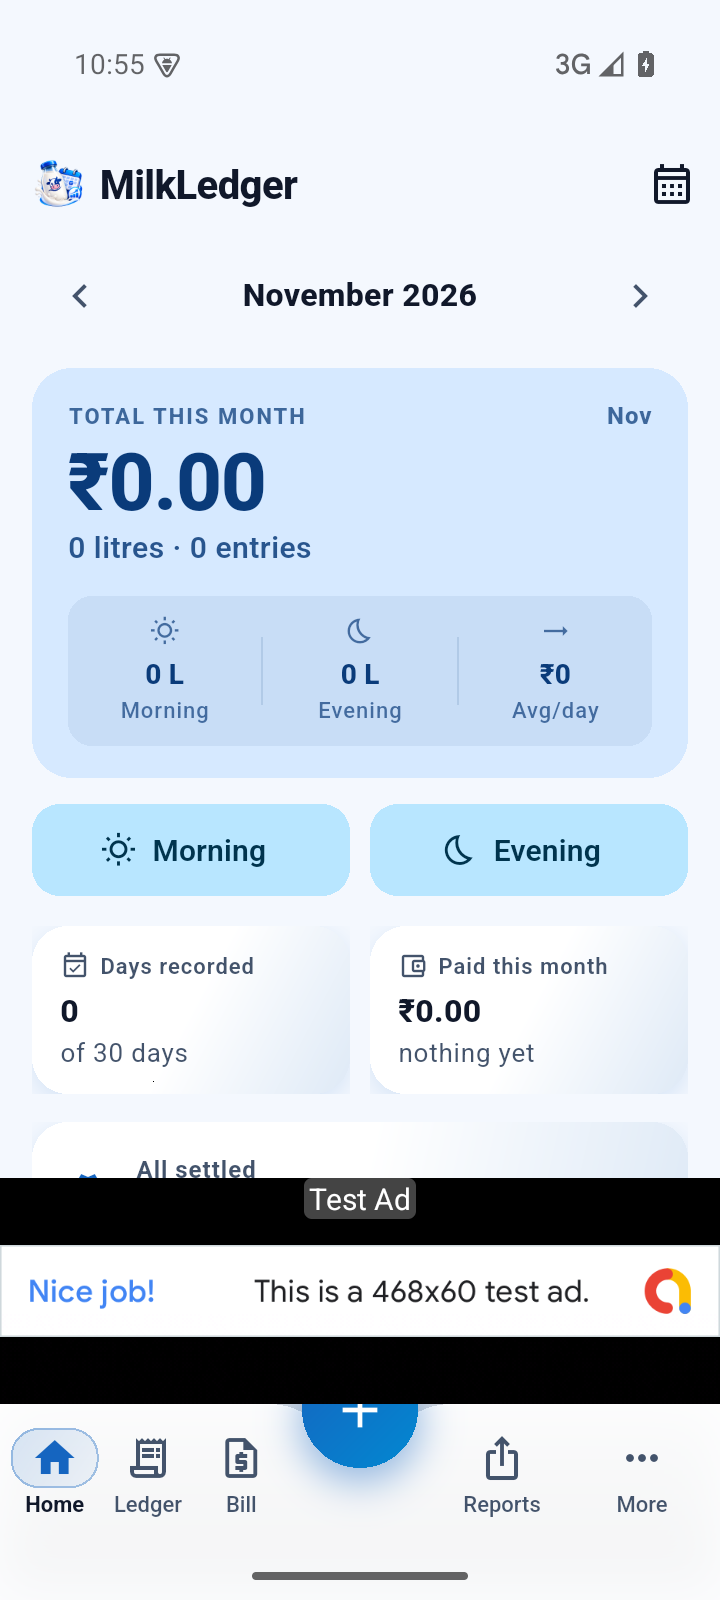
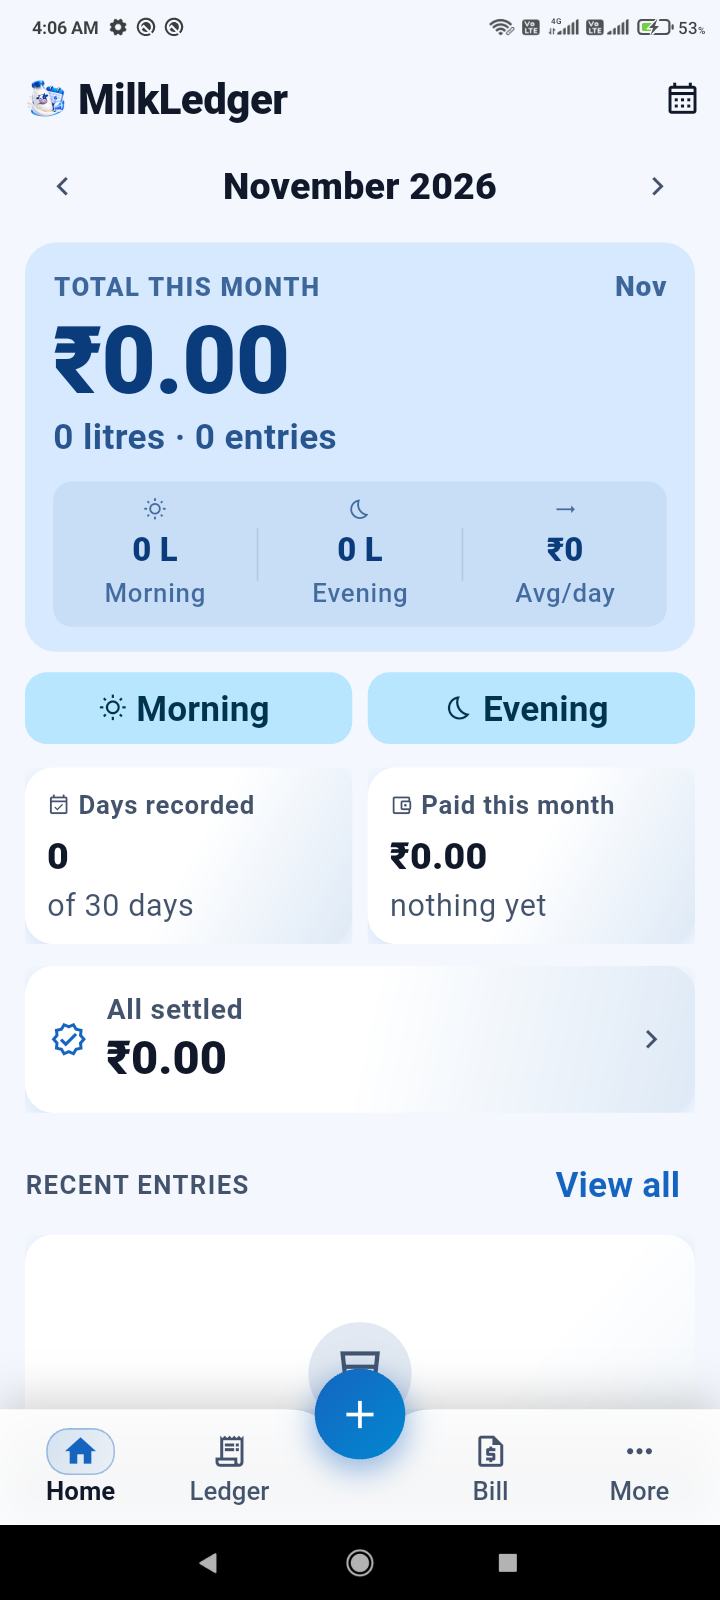
docs: refresh the screenshot set with the 1.1.2 navigation

diff --git a/README.md b/README.md
@@ -90,7 +90,7 @@
 | 👤 **Per-seller rates** | Every seller has their own milk price — per litre or per ½ litre. |
 | 🧾 **Bill screen** | Build a bill at the saved seller rates or one manual price (₹50–₹200), with a live preview. |
 | 📥 **PDF Download + Share** | Generate a bill PDF, then save it straight to `Download/MilkLedger/` or send it through the Android share sheet. |
-| 📊 **Read-only Reports** | Issued bills and entry previews, plus a daily spend chart. Bills are frozen snapshots. |
+| 📊 **Read-only Reports** | Issued bills and entry previews, plus a daily spend chart — now opened from **More → Reports**. Bills are frozen snapshots. |
 | 🔁 **Repeat** | Repeat morning/evening entries in one tap. |
 | ⏰ **Reminders** | Daily milk reminder + monthly bill reminder (scheduled on-device). |
 | 🧩 **Home widget** | Shows this month's total, litres and entry count on your launcher. |
@@ -104,13 +104,21 @@
 
 ## 📸 Screenshots
 
-| Home | Add milk | Bill · Sellers |
+| Home | More | Reports |
 |---|---|---|
-| ![Home](assets/screens/home.png) | ![Add milk](assets/screens/add-milk.png) | ![Bill with saved seller rates](assets/screens/bill-sellers.png) |
+| ![Home with the four-tab bar](assets/screens/home.png) | ![More with Reports at the top](assets/screens/more.png) | ![Reports opened from More](assets/screens/reports.png) |
 
-| Bill · Manual | PDF ready | Sellers |
+| Add milk | Bill · Sellers | Bill · Manual |
 |---|---|---|
-| ![Manual pricing](assets/screens/bill-manual.png) | ![Download or share the PDF](assets/screens/pdf-ready.png) | ![Sellers](assets/screens/sellers.png) |
+| ![Add milk](assets/screens/add-milk.png) | ![Bill with saved seller rates](assets/screens/bill-sellers.png) | ![Manual pricing](assets/screens/bill-manual.png) |
+
+| PDF ready | Sellers |
+|---|---|
+| ![Download or share the PDF](assets/screens/pdf-ready.png) | ![Sellers](assets/screens/sellers.png) |
+
+> The top row is from **1.1.2**: the bar is `Home · Ledger | + | Bill · More`, and
+> Reports opens from **More → Reports** as a pushed screen. The other screens were
+> captured on **1.1.1**, where the bar still had a Reports tab.
 
 ---
 
